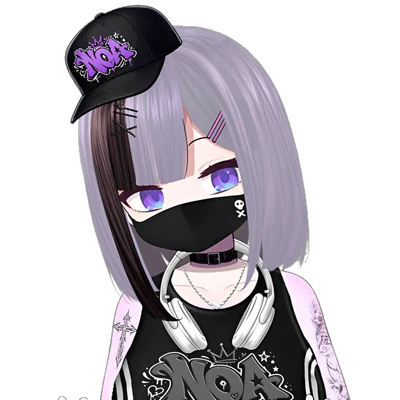
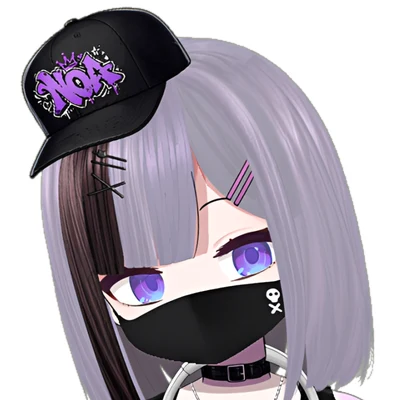
NOA♪のアイコンと紹介文を本人の希望で修正

diff --git a/vtuber.html b/vtuber.html
@@ -150,7 +150,7 @@
         <article class="vt-card">
           <img class="vt-card__photo" src="assets/img/vtuber/noa.webp" alt="NOA♪" width="200" height="200" loading="lazy" />
           <h3 class="vt-card__name">NOA♪</h3>
-          <p class="vt-card__bio">PUBGメインのゲーム配信。「PUBGのVと言えばNOA」を目指して活動中。</p>
+          <p class="vt-card__bio">PUBGでVStreamerの頂点を目指し活動中。</p>
           <div class="vt-card__links">
             <a href="https://x.com/NOAxxxPUBG" target="_blank" rel="noopener">X</a>
             <a href="https://www.twitch.tv/mvk_noa" target="_blank" rel="noopener">Twitch</a>
